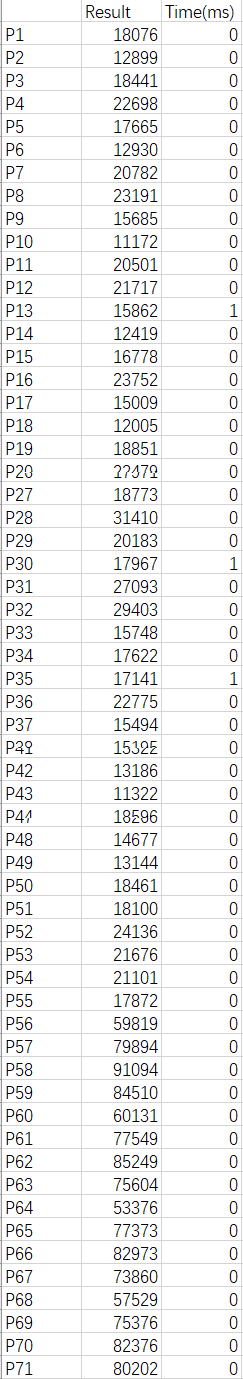
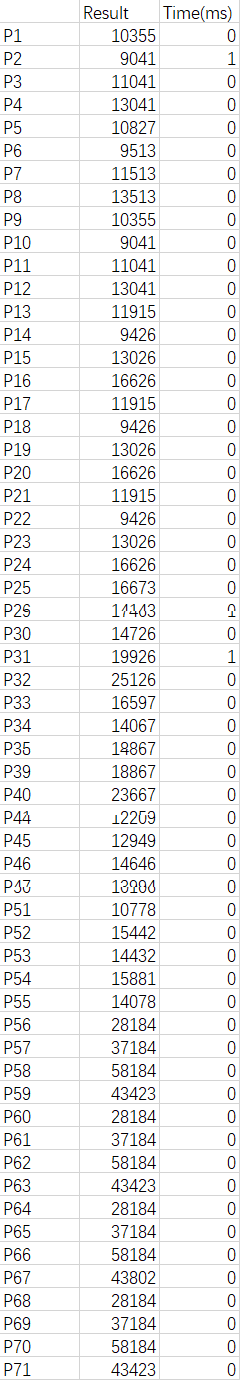
greedy result

Changed region(s): [[0.3208, 0.0, 0.6708, 1.0], [0.0, 0.0, 0.1458, 1.0], [0.6708, 0.0, 1.0, 1.0]]

diff --git a/_posts/2018-12-23-Algorithm-CFLP.md b/_posts/2018-12-23-Algorithm-CFLP.md
@@ -103,9 +103,9 @@ tags:
     ```
 
 #### 2. 贪心算法：
-- 从第一个消费者开始，遍历所有的设备，选择其中的开销最低且所剩容量满足本消费者的需求的仓库。
+- 从第一个消费者开始，遍历所有的设备，选择其中的分配开销最低且所剩容量满足本消费者的需求的仓库。
 - 总共只需要两个循环，由于本次实验所使用的数据量最多的案例也不过6000多个，所以这样贪心的解决方式所消耗的时间是非常少的，在1ms左右便可以遍历出贪心的结果。
-- 计算开销的方式：若设备未打开过，本次开销为：消费者分配给该设备的开销加上打开设备的开销；若仓库已打开，本次开销为：消费者分配给该设备的开销。
+- 计算开销的方式：不论设备是否打开过，都优先选择分配开销最低的设备，总的开销最后再看设备是否已经打开再来添上打开的开销。
     ```java
     //贪心算法，优先选择当前满足要求的facility中cost最小的。
     public GreedyResult Greedy(int[][] facilities, int[][] customers){
@@ -118,7 +118,6 @@ tags:
         int[] customersToFacilities = new int[customers.length];
         long startTime=System.currentTimeMillis();
         int costSum = 0;
-
         for(int i = 0;i<customers.length;i++){
             int minCost = 99999;
             int selectIndex = -1;
@@ -128,16 +127,17 @@ tags:
                 if(tempFacilities[j][0]<customers[i][0]){
                     continue;
                 }
-                if(facilitiesStatus[j]==0){
-                    currentCost += tempFacilities[j][1];
-                }
+
                 currentCost += customers[i][j+1];
                 if(currentCost <= minCost){
                     minCost = currentCost;
                     selectIndex = j;
                 }
             }
-            facilitiesStatus[selectIndex] = 1;
+            if(facilitiesStatus[selectIndex] == 0){
+                facilitiesStatus[selectIndex] = 1;
+                costSum += tempFacilities[selectIndex][1];
+            }
             customersToFacilities[i] = selectIndex;
             tempFacilities[selectIndex][0] -= customers[i][0];
             costSum += minCost;
@@ -150,8 +150,8 @@ tags:
     }
     ```
 #### 3.模拟退火
-- `初温`——我的初温设为100。初温设置的高低影响的是对差解的接受率，因为模拟退火算法是以概率`exp(-ΔT/T)`接受差的新解的，若初温太高容易把好的解也给跳出了；由于我初始解产生是随机生成的，所以初温设为100，如果我使用的是另外一种方案即用贪心来生成初始解，初温则可以调低一些。
-- `初始解状态S(算法迭代的起点)`——初始解我是随机生成，生成一个随机的合理的解。（不合理即 `某一工厂的capacity小于所有选择该工厂的消费者的demand之和`）
+- `初温`——我的初温设为100。初温设置的高低影响的是对差解的接受率，因为模拟退火算法是以概率`exp(-ΔT/T)`接受差的新解的，若初温太高容易把好的解也给跳出了，太低又容易导致卡在局部最优；由于我初始解产生是通过贪心生成的，所以初温设为100，如果我使用的是另外一种方案即用随机来生成初始解，初温则可以调高一些。
+- `初始解状态S(算法迭代的起点)`——初始解我试过两种生成方式，一是生成一个随机的合理的解。（不合理即 `某一工厂的capacity小于所有选择该工厂的消费者的demand之和`）
     ```java
      for(int i=1;i<customersCount;i++){
             int[][] tempFacilities1 = copyFacility();
@@ -176,6 +176,7 @@ tags:
             initList.add(greedyResult.customersToFacilities[i]);
         }
         ```
+    - 最后对比选择贪心生成初始解。
 
 - `每个T值的迭代次数L`——设为100
 - `产生新解S′`——我产生新解的方式有两种：
